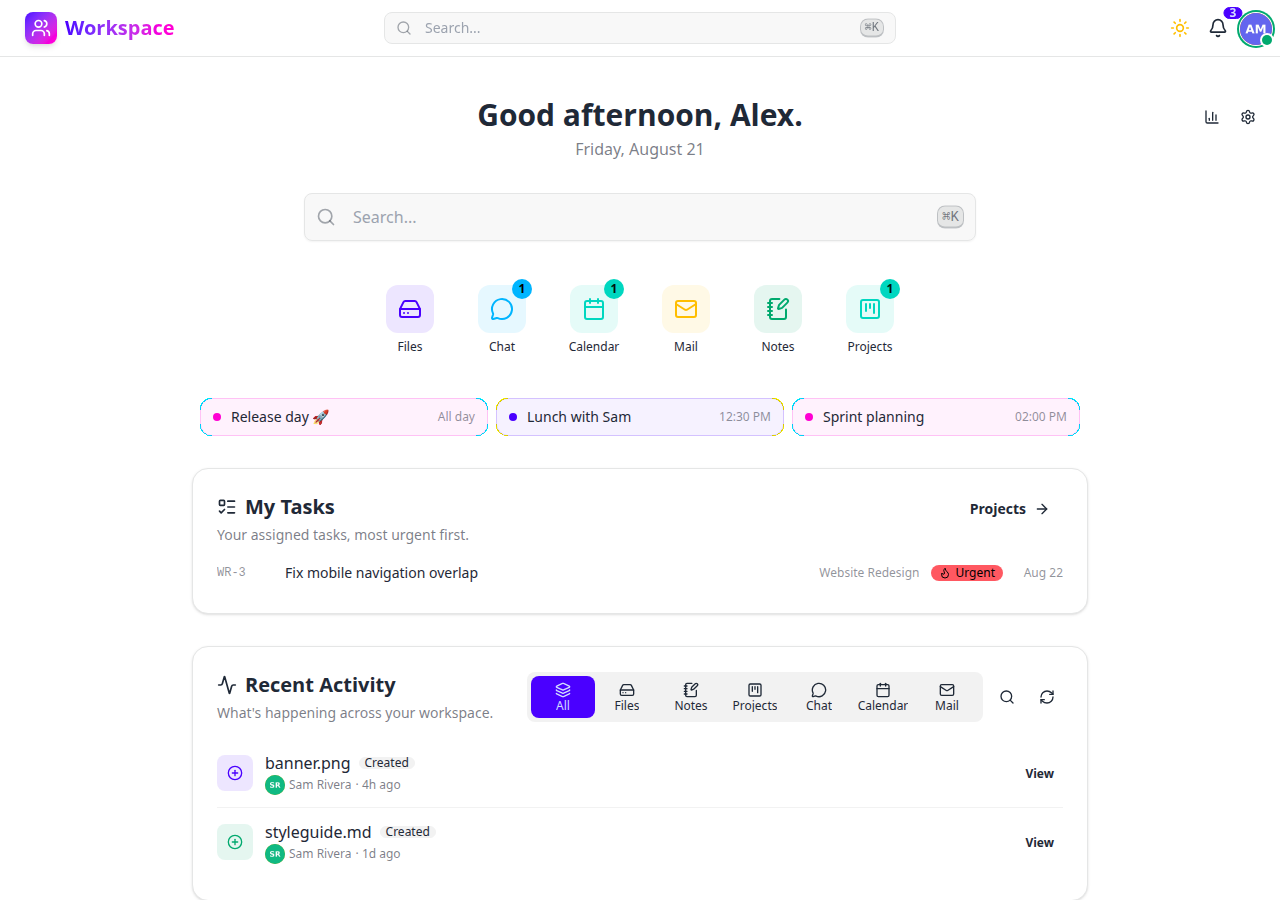
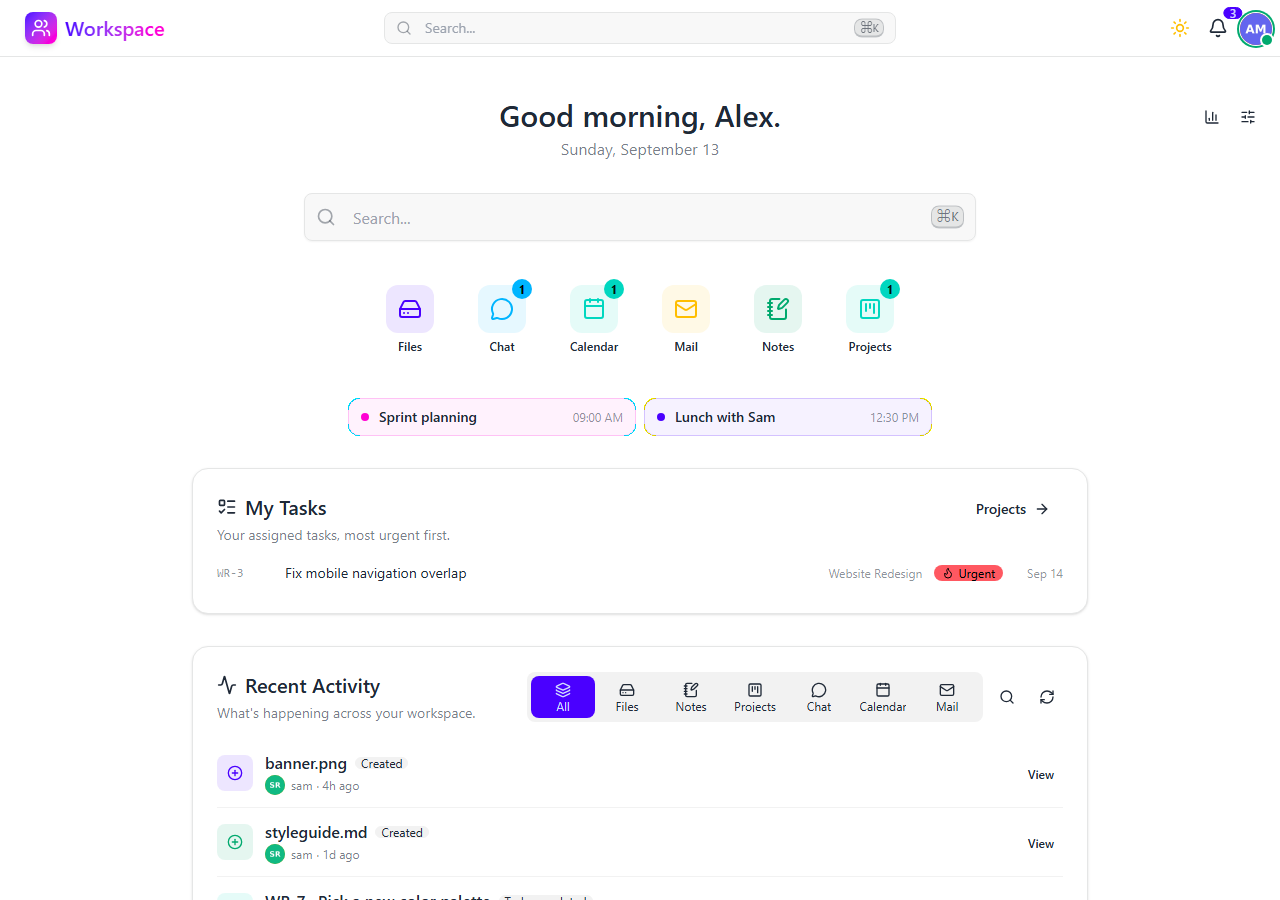
docs(images): refresh screenshots and add timeline and analytics captures
The seed now carries tags on files and notes, two dated epics with
start dates on the tasks and backdated flow events, so the board, the
task panel and the new timeline and analytics captures show those
features. The calendar meetings move to the coming week when the script
runs from Friday on, and the mosaic capture waits for every thumbnail
to load instead of a fixed settle.

diff --git a/scripts/_screenshot_seed.py b/scripts/_screenshot_seed.py
@@ -148,7 +148,7 @@ def seed(username, password):
 def _seed_files(alex, sam, group, now):
     from django.core.files.base import ContentFile
 
-    from workspace.files.models import FileEvent, FileFavorite, PinnedFolder
+    from workspace.files.models import FileEvent, FileFavorite, FileTag, PinnedFolder
     from workspace.files.services import FileService
     from workspace.users.services.settings import set_setting
 
@@ -203,18 +203,39 @@ def _seed_files(alex, sam, group, now):
         (photos, name, _photo_png(start, end), "image/png", days_ago)
         for name, start, end, days_ago in pictures
     ]
-    report = None
+    created = {}
     for parent, name, data, mime, days_ago in files:
         f = FileService.create_file(
             alex, name, parent, content=ContentFile(data, name=name), mime_type=mime
         )
         backdate_file(f, now - timedelta(days=days_ago, hours=3))
-        if name == "Quarterly report.pdf":
-            report = f
+        created[name] = f
+    report = created["Quarterly report.pdf"]
 
     FileFavorite.objects.create(owner=alex, file=report)
     FileFavorite.objects.create(owner=alex, file=photos)
     PinnedFolder.objects.create(owner=alex, folder=photos, position=0)
+
+    # Tags fill the list view's Tags column and the sidebar's pinned
+    # tags; the same tags show up on notes, which are files too.
+    tags = _seed_tags(
+        alex,
+        [
+            ("client", "#3b82f6", True),
+            ("2026", "#22c55e", False),
+            ("draft", "#f97316", True),
+        ],
+    )
+    for name, tag_names in [
+        ("Quarterly report.pdf", ["client", "2026"]),
+        ("budget-2026.csv", ["2026"]),
+        ("Roadmap.md", ["draft"]),
+        ("logo.svg", ["client"]),
+        ("hero-banner.png", ["draft"]),
+        ("product-shot.png", ["client"]),
+    ]:
+        for tag_name in tag_names:
+            FileTag.objects.create(file=created[name], tag=tags[tag_name])
 
     # Activity from another user, on a group drive the demo user can see:
     # the dashboard feed excludes the viewer's own actions.
@@ -241,12 +262,26 @@ def _seed_files(alex, sam, group, now):
     return str(photos.uuid)
 
 
+def _seed_tags(owner, specs):
+    """Create (name, color, pinned) tags for *owner*; returns them by name."""
+    from workspace.files.models import Tag
+
+    return {
+        name: Tag.objects.create(
+            owner=owner, name=name, color=color, is_favorite=pinned
+        )
+        for name, color, pinned in specs
+    }
+
+
 def _seed_notes(alex, now):
     from django.core.files.base import ContentFile
 
-    from workspace.files.models import File
+    from workspace.files.models import File, FileTag
     from workspace.files.services import FileService
     from workspace.notes.ui.views import _ensure_default_folders
+
+    meeting = _seed_tags(alex, [("meeting", "#a855f7", True)])["meeting"]
 
     prefs, _ = _ensure_default_folders(alex)
     notes_folder = File.objects.get(uuid=prefs["defaultFolderUuid"])
@@ -284,6 +319,8 @@ def _seed_notes(alex, now):
             mime_type="text/markdown",
         )
         _backdate(f, now - timedelta(hours=hours_ago))
+        if name == "Project kickoff.md":
+            FileTag.objects.create(file=f, tag=meeting)
 
 
 def _seed_chat(alex, sam, jordan, now):
@@ -404,6 +441,11 @@ def _seed_calendar(alex, sam, jordan, now):
 
     today = now.replace(minute=0, second=0, microsecond=0)
     monday = today.replace(hour=0) - timedelta(days=today.weekday())
+    # From Friday on, most of the week's meetings would already be behind
+    # us and the agenda view would show nothing but the recurring yoga;
+    # place them in the coming week instead.
+    if today.weekday() >= 4:
+        monday += timedelta(days=7)
 
     def event(cal, title, start, hours=1, rule="", **kwargs):
         ev = Event(
@@ -577,8 +619,21 @@ def _seed_mail(alex, now):
     inbox.save(update_fields=["message_count", "unread_count"])
 
 
+def _offset_date(now, days):
+    return (now + timedelta(days=days)).date() if days is not None else None
+
+
 def _seed_projects(alex, sam, jordan, now):
-    from workspace.projects.models import Label, Project, ProjectMember, TaskComment
+    from workspace.projects.models import (
+        Epic,
+        Label,
+        Project,
+        ProjectMember,
+        Task,
+        TaskComment,
+        TaskEvent,
+    )
+    from workspace.projects.services.events import record_task_event
     from workspace.projects.services.projects import create_project
     from workspace.projects.services.tasks import create_task
 
@@ -609,51 +664,156 @@ def _seed_projects(alex, sam, jordan, now):
         "- LCP stays under 2s on mobile\n"
         "- Light and dark theme variants\n"
     )
+    epics = {
+        name: Epic.objects.create(
+            project=project,
+            name=name,
+            color=color,
+            target_date=(now + timedelta(days=target_days)).date(),
+        )
+        for name, color, target_days in [
+            ("Launch", "#6366f1", 12),
+            ("Content refresh", "#06b6d4", 26),
+        ]
+    }
+
+    # (title, status, priority, start, due, estimate, assignees, labels, epic,
+    # created, completed) - start/due/created/completed are day offsets from
+    # now. Start+due draws a bar on the timeline, a due date alone a marker;
+    # created/completed spread the flow chart over the past weeks.
     tasks = [
         (
             "Design new landing page hero",
             "In progress",
             "high",
+            -4,
             3,
             5,
             [sam],
             ["Design"],
+            "Launch",
+            -18,
+            None,
         ),
         (
             "Migrate blog articles",
             "In progress",
             "medium",
-            None,
+            -6,
+            9,
             3,
             [jordan],
             ["Content"],
+            "Content refresh",
+            -12,
+            None,
         ),
-        ("Fix mobile navigation overlap", "To do", "urgent", 1, 2, [alex], ["Bug"]),
+        (
+            "Fix mobile navigation overlap",
+            "To do",
+            "urgent",
+            None,
+            1,
+            2,
+            [alex],
+            ["Bug"],
+            "Launch",
+            -2,
+            None,
+        ),
         (
             "Set up newsletter signup API",
             "To do",
             "medium",
-            None,
+            2,
+            8,
             3,
             [sam],
             ["Backend"],
+            "Launch",
+            -9,
+            None,
         ),
-        ("Write pricing page copy", "To do", "low", None, 1, [], ["Content"]),
-        ("Audit current site performance", "Done", "medium", None, 8, [alex], []),
-        ("Pick a new color palette", "Done", "low", None, 2, [sam], ["Design"]),
-        ("Dark mode support", "Backlog", "low", None, 5, [], ["Design"]),
+        (
+            "Write pricing page copy",
+            "To do",
+            "low",
+            6,
+            13,
+            1,
+            [],
+            ["Content"],
+            "Content refresh",
+            -5,
+            None,
+        ),
+        (
+            "Audit current site performance",
+            "Done",
+            "medium",
+            -20,
+            -13,
+            8,
+            [alex],
+            [],
+            "Launch",
+            -27,
+            -13,
+        ),
+        (
+            "Pick a new color palette",
+            "Done",
+            "low",
+            -15,
+            -8,
+            2,
+            [sam],
+            ["Design"],
+            "Launch",
+            -20,
+            -8,
+        ),
+        (
+            "Dark mode support",
+            "Backlog",
+            "low",
+            None,
+            None,
+            5,
+            [],
+            ["Design"],
+            None,
+            -33,
+            None,
+        ),
         (
             "Customer testimonials section",
             "Backlog",
             "medium",
             None,
             None,
+            None,
             [],
             ["Content"],
+            "Content refresh",
+            -40,
+            None,
         ),
     ]
     hero = None
-    for title, status, priority, due_days, estimate, assignees, task_labels in tasks:
+    for (
+        title,
+        status,
+        priority,
+        start_days,
+        due_days,
+        estimate,
+        assignees,
+        task_labels,
+        epic_name,
+        created_days,
+        completed_days,
+    ) in tasks:
         task = create_task(
             project,
             alex,
@@ -661,13 +821,39 @@ def _seed_projects(alex, sam, jordan, now):
             description=hero_description if title.startswith("Design new") else "",
             status=statuses[status],
             priority=priority,
-            due_date=(now + timedelta(days=due_days)).date() if due_days else None,
+            start_date=_offset_date(now, start_days),
+            due_date=_offset_date(now, due_days),
             estimate=estimate,
             assignees=assignees,
             labels=[labels[name] for name in task_labels],
+            epic=epics[epic_name] if epic_name else None,
         )
         if hero is None:
             hero = task
+        created_at = now + timedelta(days=created_days, hours=-2)
+        _backdate(task, created_at)
+        task.events.filter(type=TaskEvent.Type.CREATED).update(created_at=created_at)
+        if completed_days is not None:
+            # The move onto the board is what cycle time is measured from.
+            started_at = now + timedelta(days=start_days, hours=-1)
+            moved_event = record_task_event(
+                task,
+                type=TaskEvent.Type.MOVED,
+                actor=assignees[0] if assignees else alex,
+                from_status=statuses["To do"],
+                to_status=statuses["In progress"],
+            )
+            _backdate(moved_event, started_at)
+            completed_at = now + timedelta(days=completed_days, hours=-1)
+            Task.objects.filter(pk=task.pk).update(completed_at=completed_at)
+            done_event = record_task_event(
+                task,
+                type=TaskEvent.Type.COMPLETED,
+                actor=assignees[0] if assignees else alex,
+                from_status=statuses["In progress"],
+                to_status=statuses["Done"],
+            )
+            _backdate(done_event, completed_at)
 
     # Comment thread for the task-panel capture.
     for author, body, hours_ago in [
@@ -764,6 +950,12 @@ def _files_view(mode):
         # otherwise be captured hovered (selection ring, row menu).
         page.mouse.move(5, 5)
         page.wait_for_timeout(600)
+        # Thumbnails are lazy images fetched one request each; on a slow
+        # host the fixed settle leaves half the grid still grey.
+        page.wait_for_function(
+            "[...document.images].every(img => img.complete && img.naturalWidth > 0)",
+            timeout=15000,
+        )
 
     return prep
 
@@ -822,6 +1014,12 @@ SHOTS = [
         "path": "/projects/{project_uuid}/board?task={task_uuid}",
         "settle_ms": 2500,
     },
+    {
+        "name": "projects_3",
+        "path": "/projects/{project_uuid}/timeline?scale=month",
+        "settle_ms": 2500,
+    },
+    {"name": "projects_4", "path": "/projects/{project_uuid}/analytics"},
     {"name": "ai_1", "path": "/chat/{bot_conversation_uuid}"},
     {"name": "notifications_1", "path": "/", "prep": _open_notifications},
 ]

diff --git a/docs/projects/README.md b/docs/projects/README.md
@@ -6,6 +6,10 @@ Kanban boards for tracking tasks, solo or as a team.
 
 ![Task panel](../images/projects_2.png)
 
+![Timeline](../images/projects_3.png)
+
+![Analytics](../images/projects_4.png)
+
 ## Features
 
 - **Personal project** - Every user gets a private project out of the box, ready to use without any setup
